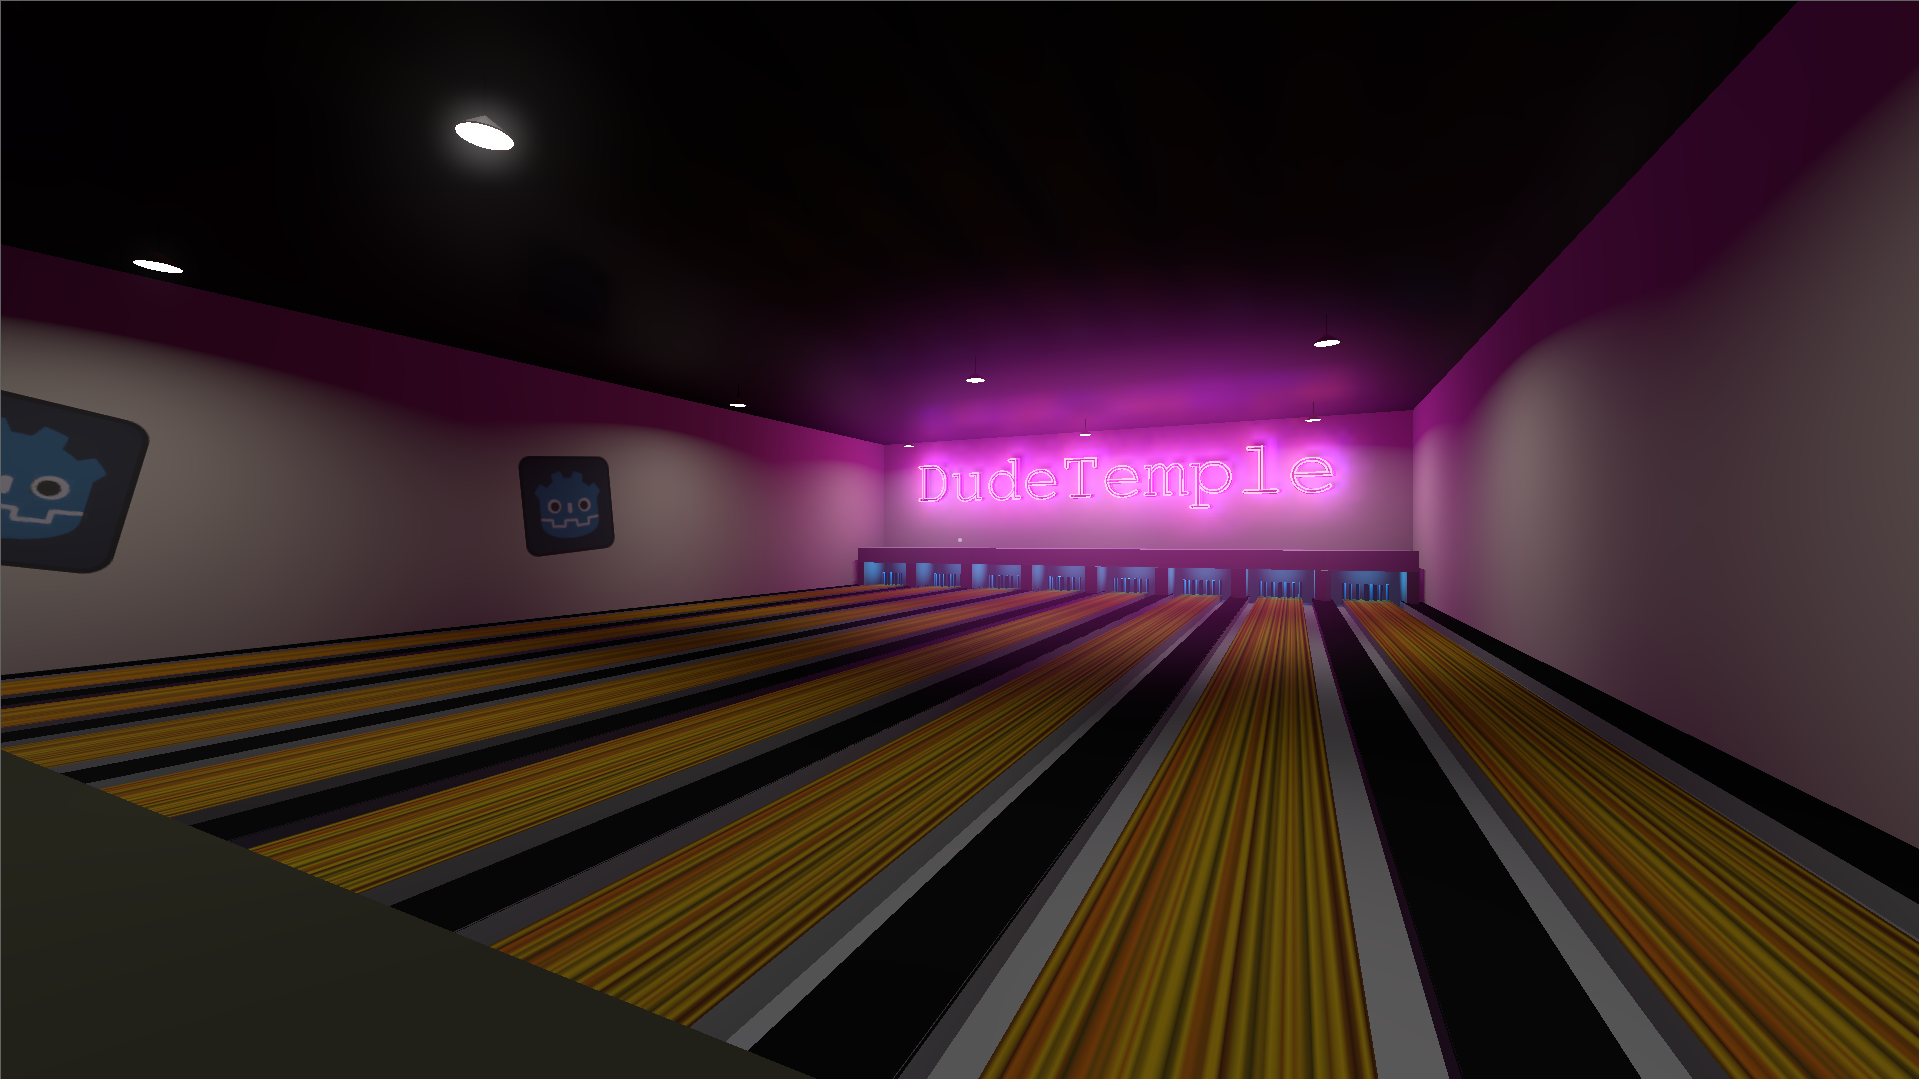
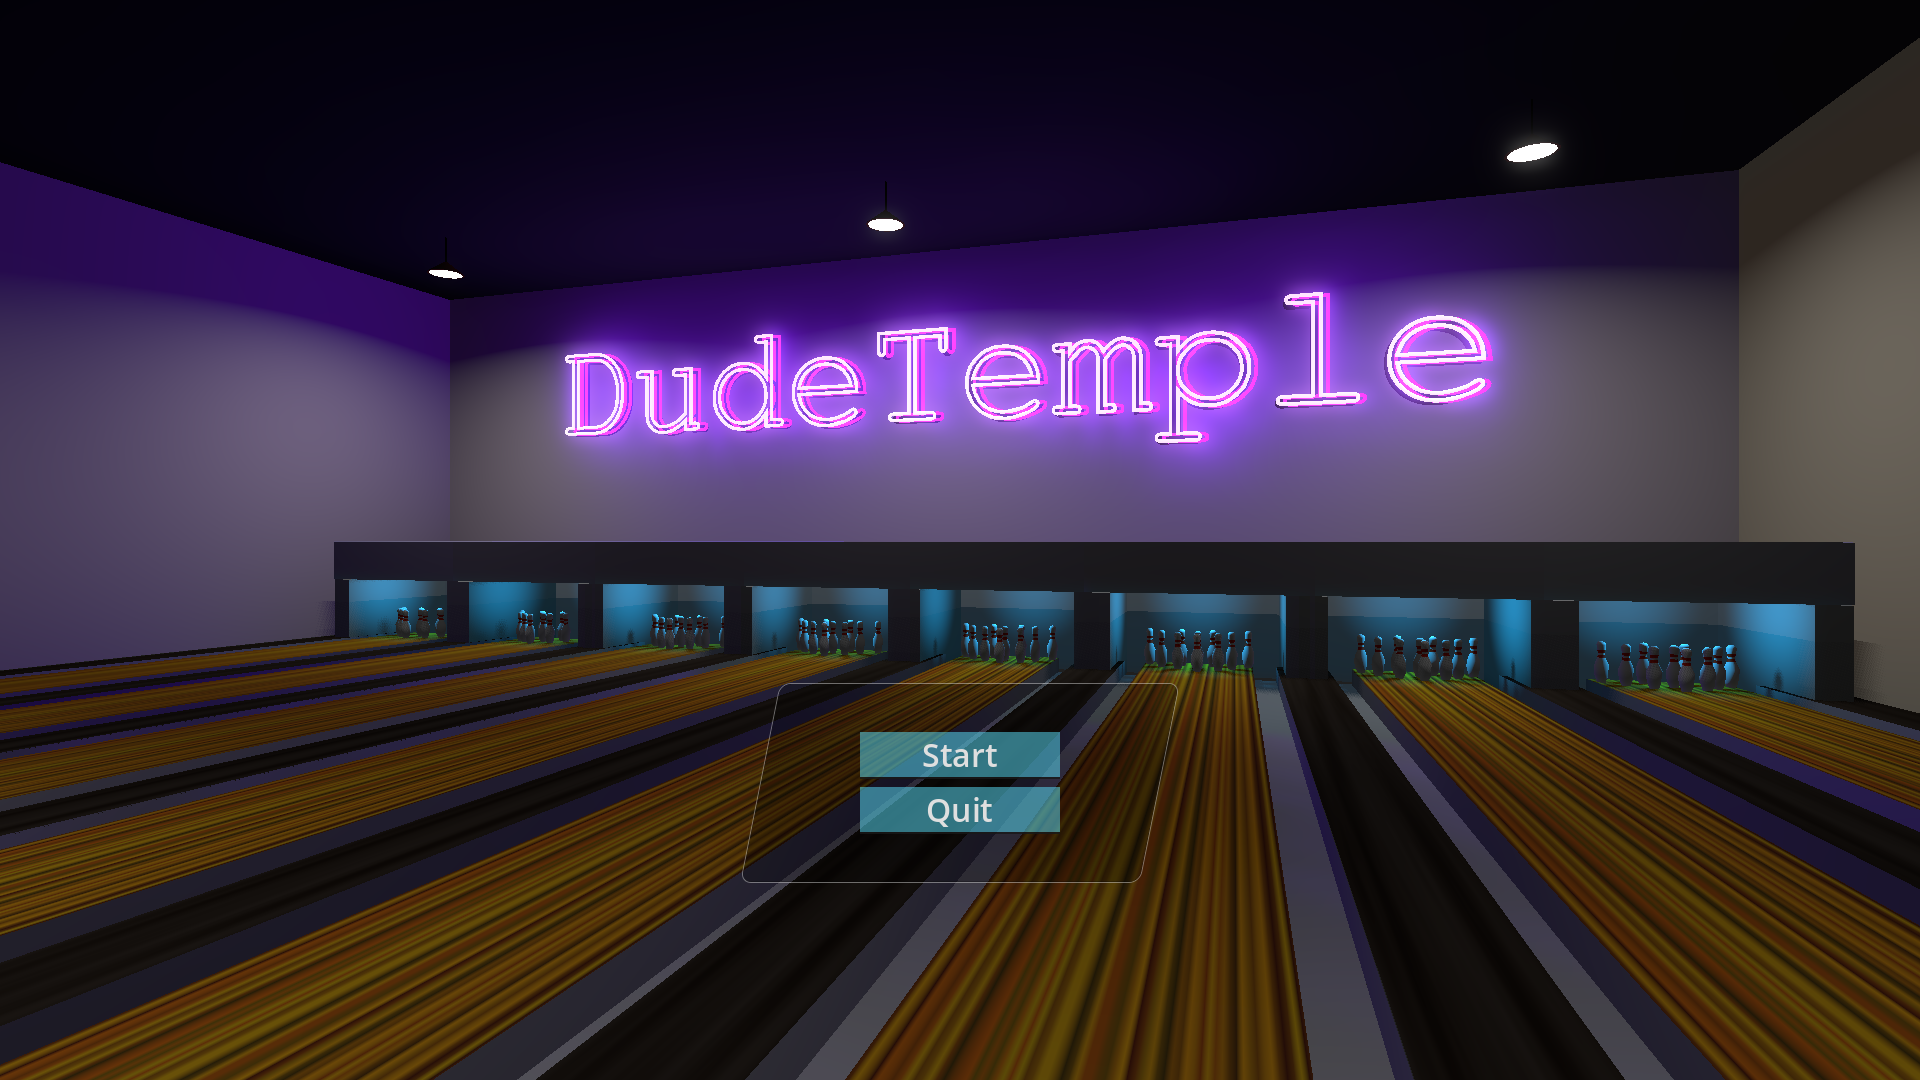
update readme and screenshots

diff --git a/README.md b/README.md
@@ -4,14 +4,13 @@ DudeTemple is a bowling game made with [Godot Engine](https://godotengine.org/).
 
 ## Features
 
-Right now it has the following implemented features:
-  - simple bowling gameplay loop
+  - bowling gameplay, based on physics
   - customizing wall posters with your pictures
   - auto save
 
 ## Download
 
-You can download a prototype build from a github [Releases page](https://github.com/nickolay-klyuev/DudeTemple/releases)
+You can download a build from [github releases page](https://github.com/nickolay-klyuev/DudeTemple/releases) or [itch.io site](https://nicko-k.itch.io/dude-temple)
 
 ## Screenshots
 
@@ -21,9 +20,9 @@ You can download a prototype build from a github [Releases page](https://github.
   <img src="/Screenshots/Screenshot_3.png?raw=true" alt="Screenshot_3" width="200"/>
 </div>
 
-## Game Engine Version
+## Game Engine
 
-Godot Engine - .NET 4.4
+Godot Engine - .NET 4.6
 
 ## License
 